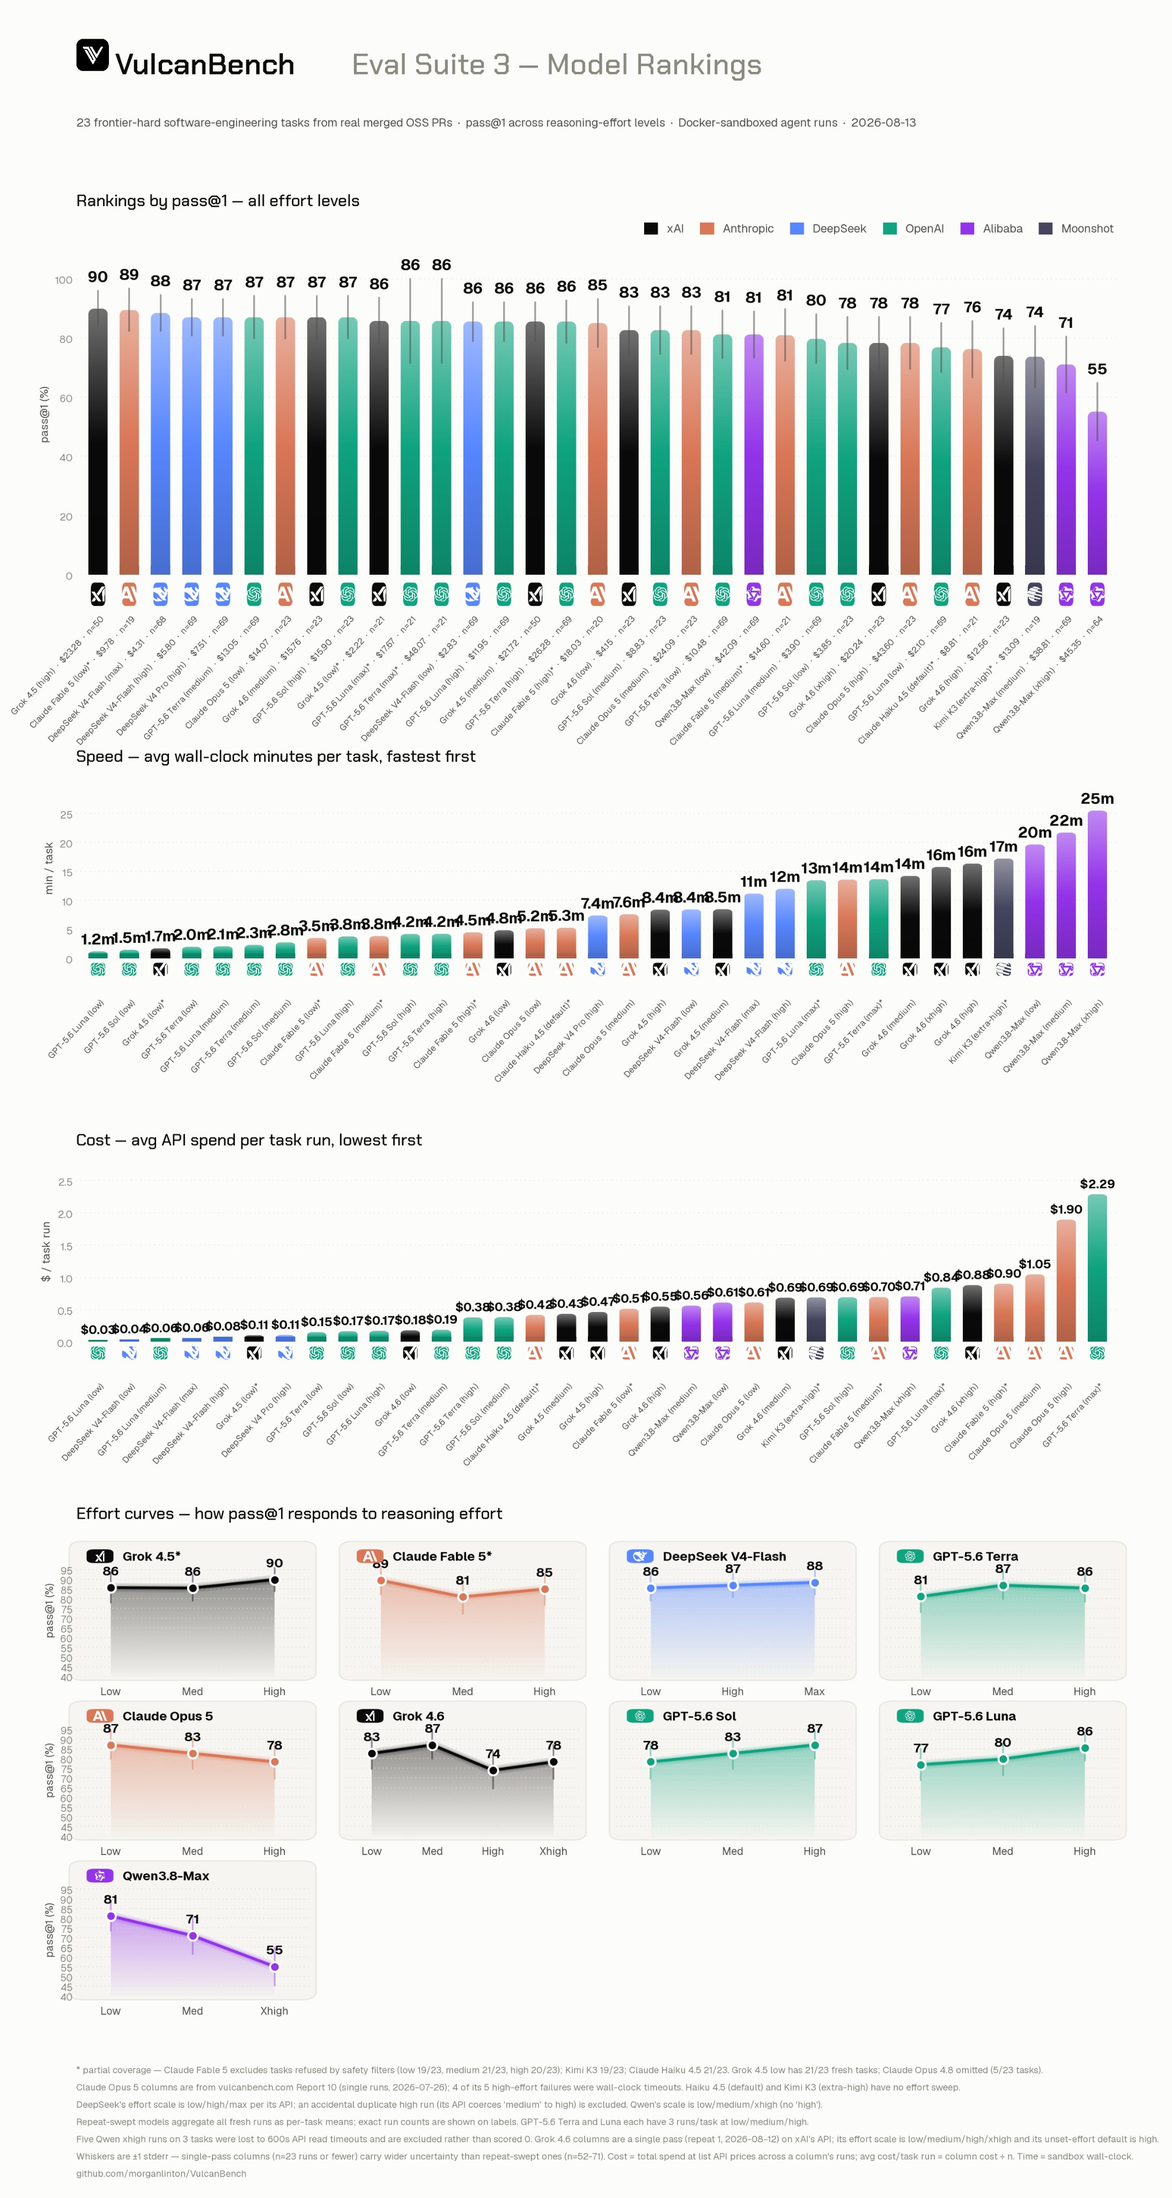
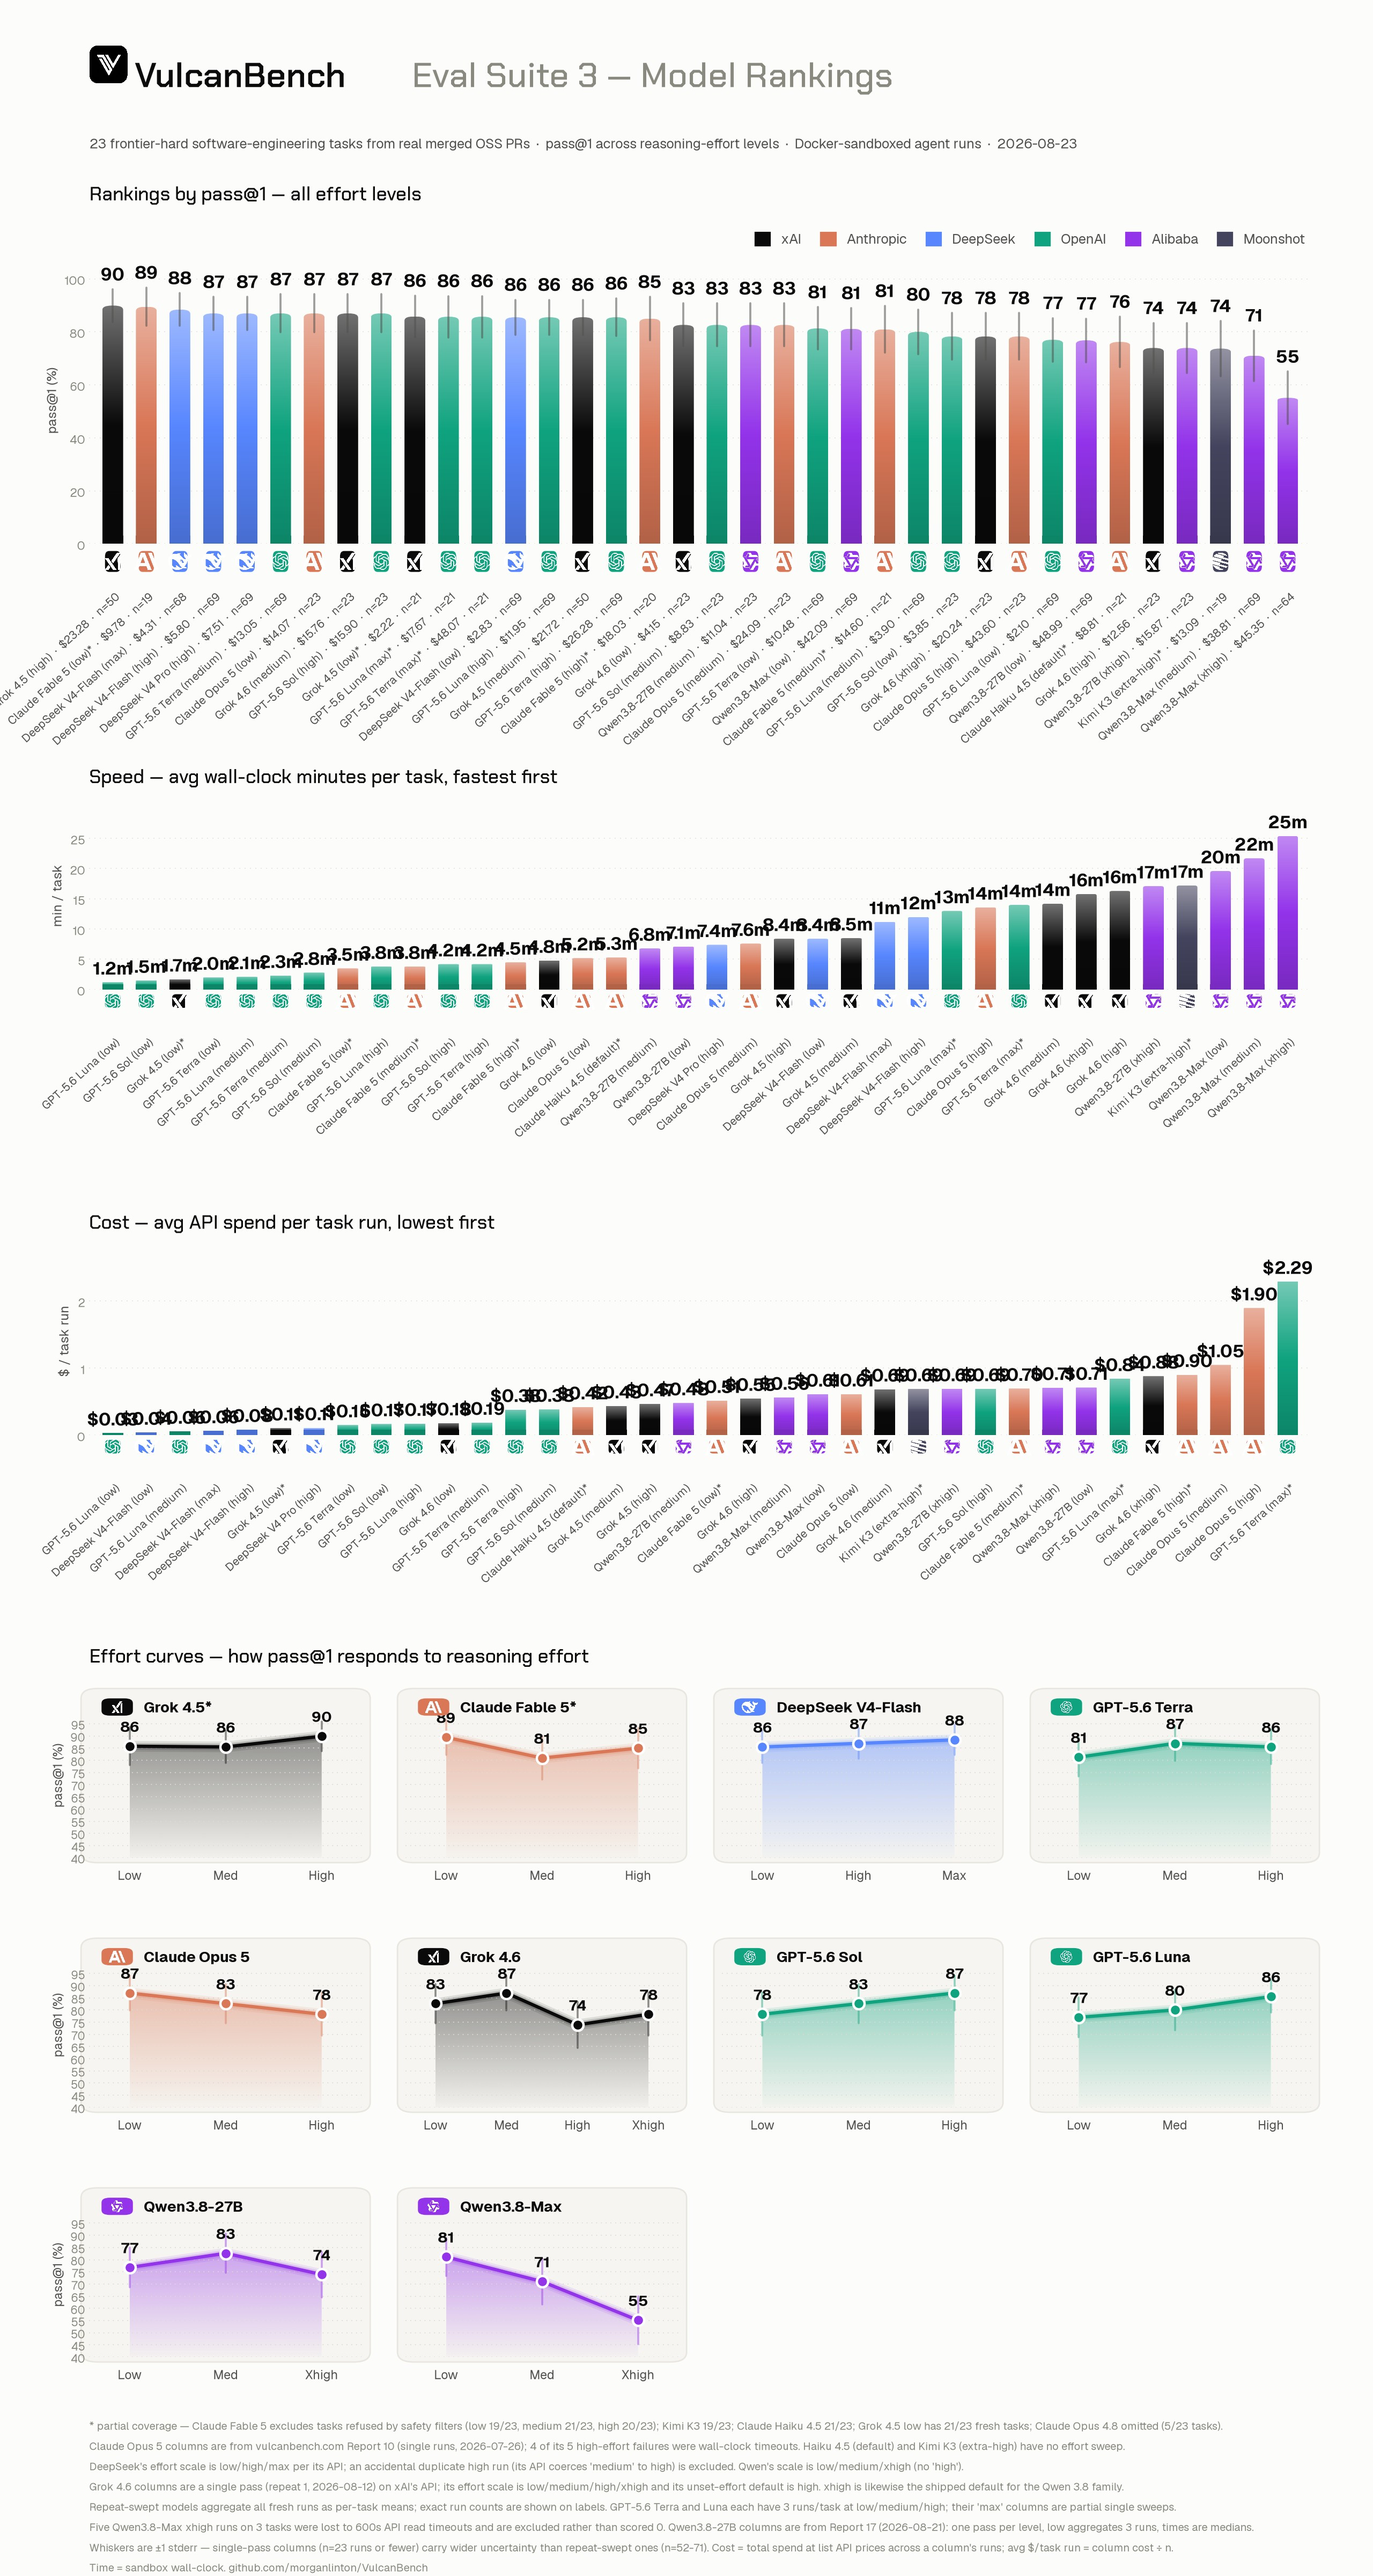
Re-render the full-board card with Qwen3.8-27B (36 columns)
Rebuilt via the rankings-chart pipeline extended to the current board
(Grok 4.6, GPT-5.6 Terra/Luna, V4 Pro, cost panel, 3-row curve grid,
Alibaba branding) and fed reconstructed aggregates: published values
from the reports and prior card, 27B columns from Report 17, and
repeat-column whiskers transcribed from the 2026-08-13 render
(validated within 0.7pt against all published stderr). Supersede with
a raw-run pipeline pass when the v3 run data is at hand.

Speed and cost panels re-cut from the new render; captions updated to
2026-08-23 and the "joins the next render" notes resolved. Best-effort
cards (v3-rankings/speed/cost/effort-curves) still show 12 models.

Changed region(s): [[0.0, 0.0625, 0.9648, 0.5], [0.0311, 0.4688, 0.9648, 0.9375], [0.0622, 0.9375, 0.8714, 1.0]]

diff --git a/leaderboard.html b/leaderboard.html
@@ -135,7 +135,7 @@
   <div id="view-best" role="tabpanel" aria-labelledby="lbTabBest">
   <figure>
     <img src="assets/leaderboard/v3-rankings.png" alt="VulcanBench Eval Suite 3 rankings: Grok 4.5 at 90 percent pass at one, Claude Fable 5 at 89, DeepSeek V4-Flash at 88, then DeepSeek V4 Pro, GPT-5.6 Terra, Claude Opus 5, Grok 4.6, and GPT-5.6 Sol at 87, GPT-5.6 Luna 86, Qwen3.8-Max 81, Claude Haiku 4.5 76, Kimi K3 74" width="2560" height="2080" loading="eager" decoding="async">
-    <figcaption><b>Rankings card.</b> pass@1 by model at its best-scoring effort, whiskers &plusmn;1 stderr, with cost per task run and run count alongside. Rendered 2026-08-13; Qwen3.8-27B (added 2026-08-23, row 10 below) joins the next render.</figcaption>
+    <figcaption><b>Rankings card.</b> pass@1 by model at its best-scoring effort, whiskers &plusmn;1 stderr, with cost per task run and run count alongside. Rendered 2026-08-13; Qwen3.8-27B (added 2026-08-23) appears at row 10 below and on the re-rendered <a href="#full-board">full board</a>.</figcaption>
   </figure>
 
   <div class="dl-row" style="margin-top:6px;justify-content:center;">
@@ -208,10 +208,10 @@
     model&rsquo;s row says &ldquo;best: low&rdquo;, its medium and high columns are here too &mdash; low simply beat them.
     Click a column header to re-sort by score, cost, or speed.</p>
     <figure style="margin-top:22px;">
-      <img src="assets/leaderboard/v3-full-board.jpeg" alt="Full board card: all 33 model-by-effort columns rendered 2026-08-13, ranked by pass@1 from Grok 4.5 at high effort (90 percent) down to Qwen3.8-Max at xhigh (55 percent), with per-column speed, cost, and per-model effort curves" width="2185" height="4096" loading="lazy" decoding="async">
+      <img src="assets/leaderboard/v3-full-board.jpeg?v=2" alt="Full board card: all 36 model-by-effort columns rendered 2026-08-23, ranked by pass@1 from Grok 4.5 at high effort (90 percent) down to Qwen3.8-Max at xhigh (55 percent), with per-column speed and cost panels and ten per-model effort-curve cards including Qwen3.8-27B" width="2560" height="4800" loading="lazy" decoding="async">
       <figcaption><b>Full-board card.</b> Every column, one render: rankings, speed, cost, and effort curves. Rendered
-      2026-08-13; the three Qwen3.8-27B columns from <a href="benchmarks/17-qwen38-27b-effort.html">Report 17</a> are in
-      the table below and join the next render.</figcaption>
+      2026-08-23 &mdash; all 36 columns, including the three Qwen3.8-27B columns from
+      <a href="benchmarks/17-qwen38-27b-effort.html">Report 17</a>.</figcaption>
     </figure>
     <div class="dl-row" style="margin-top:6px;justify-content:center;">
       <a class="btn primary" href="https://x.com/intent/post?text=The%20full%20VulcanBench%20board%3A%2036%20model%C3%97effort%20columns%20on%2023%20real%20merged-PR%20tasks.%20Every%20reasoning-effort%20level%2C%20not%20just%20each%20model%27s%20best.&amp;url=https%3A%2F%2Fvulcanbench.com%2Fleaderboard.html%23full-board" target="_blank" rel="noopener">Share on X</a>
@@ -302,10 +302,10 @@
       <div class="section-label">Speed</div>
       <h2>Wall-clock minutes per task, every column.</h2>
       <figure style="margin-top:22px;">
-        <img src="assets/leaderboard/v3-full-speed.jpeg" alt="Speed panel, all 33 rendered model-by-effort columns fastest first: GPT-5.6 Luna low at 1.2 minutes per task through GPT-5.6 Terra medium 2.3, Claude Fable 5 low 3.5, Grok 4.5 high 8.4, DeepSeek V4-Flash max 11, Grok 4.6 medium 14, up to Qwen3.8-Max xhigh at 25 minutes" width="2185" height="665" loading="lazy" decoding="async">
-        <figcaption><b>Speed panel.</b> Average sandbox wall-clock per task for every column, fastest first. From the
-        2026-08-13 render; Qwen3.8-27B&rsquo;s median times (6.8&ndash;17.1 min by effort,
-        <a href="benchmarks/17-qwen38-27b-effort.html">Report 17</a>) are in the table above.</figcaption>
+        <img src="assets/leaderboard/v3-full-speed.jpeg?v=2" alt="Speed panel, all 36 model-by-effort columns fastest first: GPT-5.6 Luna low at 1.2 minutes per task through GPT-5.6 Terra medium 2.3, Claude Fable 5 low 3.5, Qwen3.8-27B medium 6.8, Grok 4.5 high 8.4, DeepSeek V4-Flash max 11, Grok 4.6 medium 14, up to Qwen3.8-Max xhigh at 25 minutes" width="2560" height="813" loading="lazy" decoding="async">
+        <figcaption><b>Speed panel.</b> Average sandbox wall-clock per task for every column, fastest first. Rendered
+        2026-08-23; Qwen3.8-27B&rsquo;s times are medians
+        (<a href="benchmarks/17-qwen38-27b-effort.html">Report 17</a>).</figcaption>
       </figure>
     </section>
 
@@ -313,10 +313,10 @@
       <div class="section-label">Cost</div>
       <h2>API spend per task run, every column.</h2>
       <figure style="margin-top:22px;">
-        <img src="assets/leaderboard/v3-full-cost.jpeg" alt="Cost panel, all 33 rendered model-by-effort columns lowest first: GPT-5.6 Luna low at 3 cents per task run, DeepSeek V4-Flash low 4 cents, through Grok 4.5 high 47 cents, Claude Fable 5 low 51 cents, up to Claude Opus 5 high at 1 dollar 90 and GPT-5.6 Terra max at 2 dollars 29" width="2185" height="645" loading="lazy" decoding="async">
+        <img src="assets/leaderboard/v3-full-cost.jpeg?v=2" alt="Cost panel, all 36 model-by-effort columns lowest first: GPT-5.6 Luna low at 3 cents per task run, DeepSeek V4-Flash low 4 cents, through Grok 4.5 high 47 cents, Qwen3.8-27B medium 48 cents, up to Claude Opus 5 high at 1 dollar 90 and GPT-5.6 Terra max at 2 dollars 29" width="2560" height="818" loading="lazy" decoding="async">
         <figcaption><b>Cost panel.</b> Total list-price API spend &divide; runs for every column, lowest first. The same
         model can span more than an order of magnitude in cost across its own effort ladder. Negotiated, cached-input, and batch rates all
-        differ; treat these as relative, not quotes. Qwen3.8-27B&rsquo;s costs ($0.48&ndash;$0.71) are in the table above.</figcaption>
+        differ; treat these as relative, not quotes. Rendered 2026-08-23.</figcaption>
       </figure>
     </section>
 
@@ -434,7 +434,7 @@
     <p class="prose" style="margin-top:10px;font-size:17px;">The best-per-model rows show one effort level each. This card shows every level that was tested, on one shared y-scale: more reasoning is not reliably better on this suite, and for several models it is worse.</p>
     <figure style="margin-top:22px;">
       <img src="assets/leaderboard/v3-effort-curves.png" alt="Effort curves: pass@1 at each reasoning-effort level for nine swept models. Grok 4.5, DeepSeek V4-Flash, GPT-5.6 Sol, and GPT-5.6 Luna rise with effort; GPT-5.6 Terra and Grok 4.6 peak mid-ladder; Claude Fable 5 dips at medium; Claude Opus 5 and Qwen3.8-Max fall as effort rises" width="2560" height="1440" loading="lazy" decoding="async">
-      <figcaption><b>Effort-curve card.</b> Each x-axis is that provider&rsquo;s own documented enum, not a common scale. Larger point = the model&rsquo;s best level. Qwen3.8-27B&rsquo;s curve (flat, then backward, like its Max sibling) is in <a href="benchmarks/17-qwen38-27b-effort.html">Report 17</a> and joins the next render.</figcaption>
+      <figcaption><b>Effort-curve card.</b> Each x-axis is that provider&rsquo;s own documented enum, not a common scale. Larger point = the model&rsquo;s best level. Qwen3.8-27B&rsquo;s curve (flat, then backward, like its Max sibling) appears on the <a href="#full-board">full-board card</a> (2026-08-23 render) and in <a href="benchmarks/17-qwen38-27b-effort.html">Report 17</a>; this standalone card updates with the next sweep.</figcaption>
     </figure>
     <div class="dl-row" style="margin-top:6px;justify-content:center;">
       <a class="btn" href="assets/leaderboard/v3-effort-curves.png" download>Download effort-curve card</a>
@@ -512,9 +512,10 @@
     <h2>What changed, and when.</h2>
     <div class="hist-list">
       <div class="hist-row"><div class="hdate">2026-08-23</div>
-        <p>Qwen3.8-27B joins at #10 from <a href="benchmarks/17-qwen38-27b-effort.html">Report 17</a>. Full-board view
-        (all 36 columns), per-view speed and cost panels, effort ladders, provider-default markers, the frontier chart,
-        and the <a href="leaderboard.json">JSON export</a> added.</p></div>
+        <p>Qwen3.8-27B joins at #10 from <a href="benchmarks/17-qwen38-27b-effort.html">Report 17</a>, and the
+        full-board card is re-rendered with all 36 columns. Full-board view, per-view speed and cost panels, effort
+        ladders, provider-default markers, the frontier chart, and the <a href="leaderboard.json">JSON export</a>
+        added.</p></div>
       <div class="hist-row"><div class="hdate">2026-08-21</div>
         <p><a href="benchmarks/17-qwen38-27b-effort.html">Report 17</a> published: Qwen3.8-27B across the effort knob,
         129 runs on the v3 suite.</p></div>
